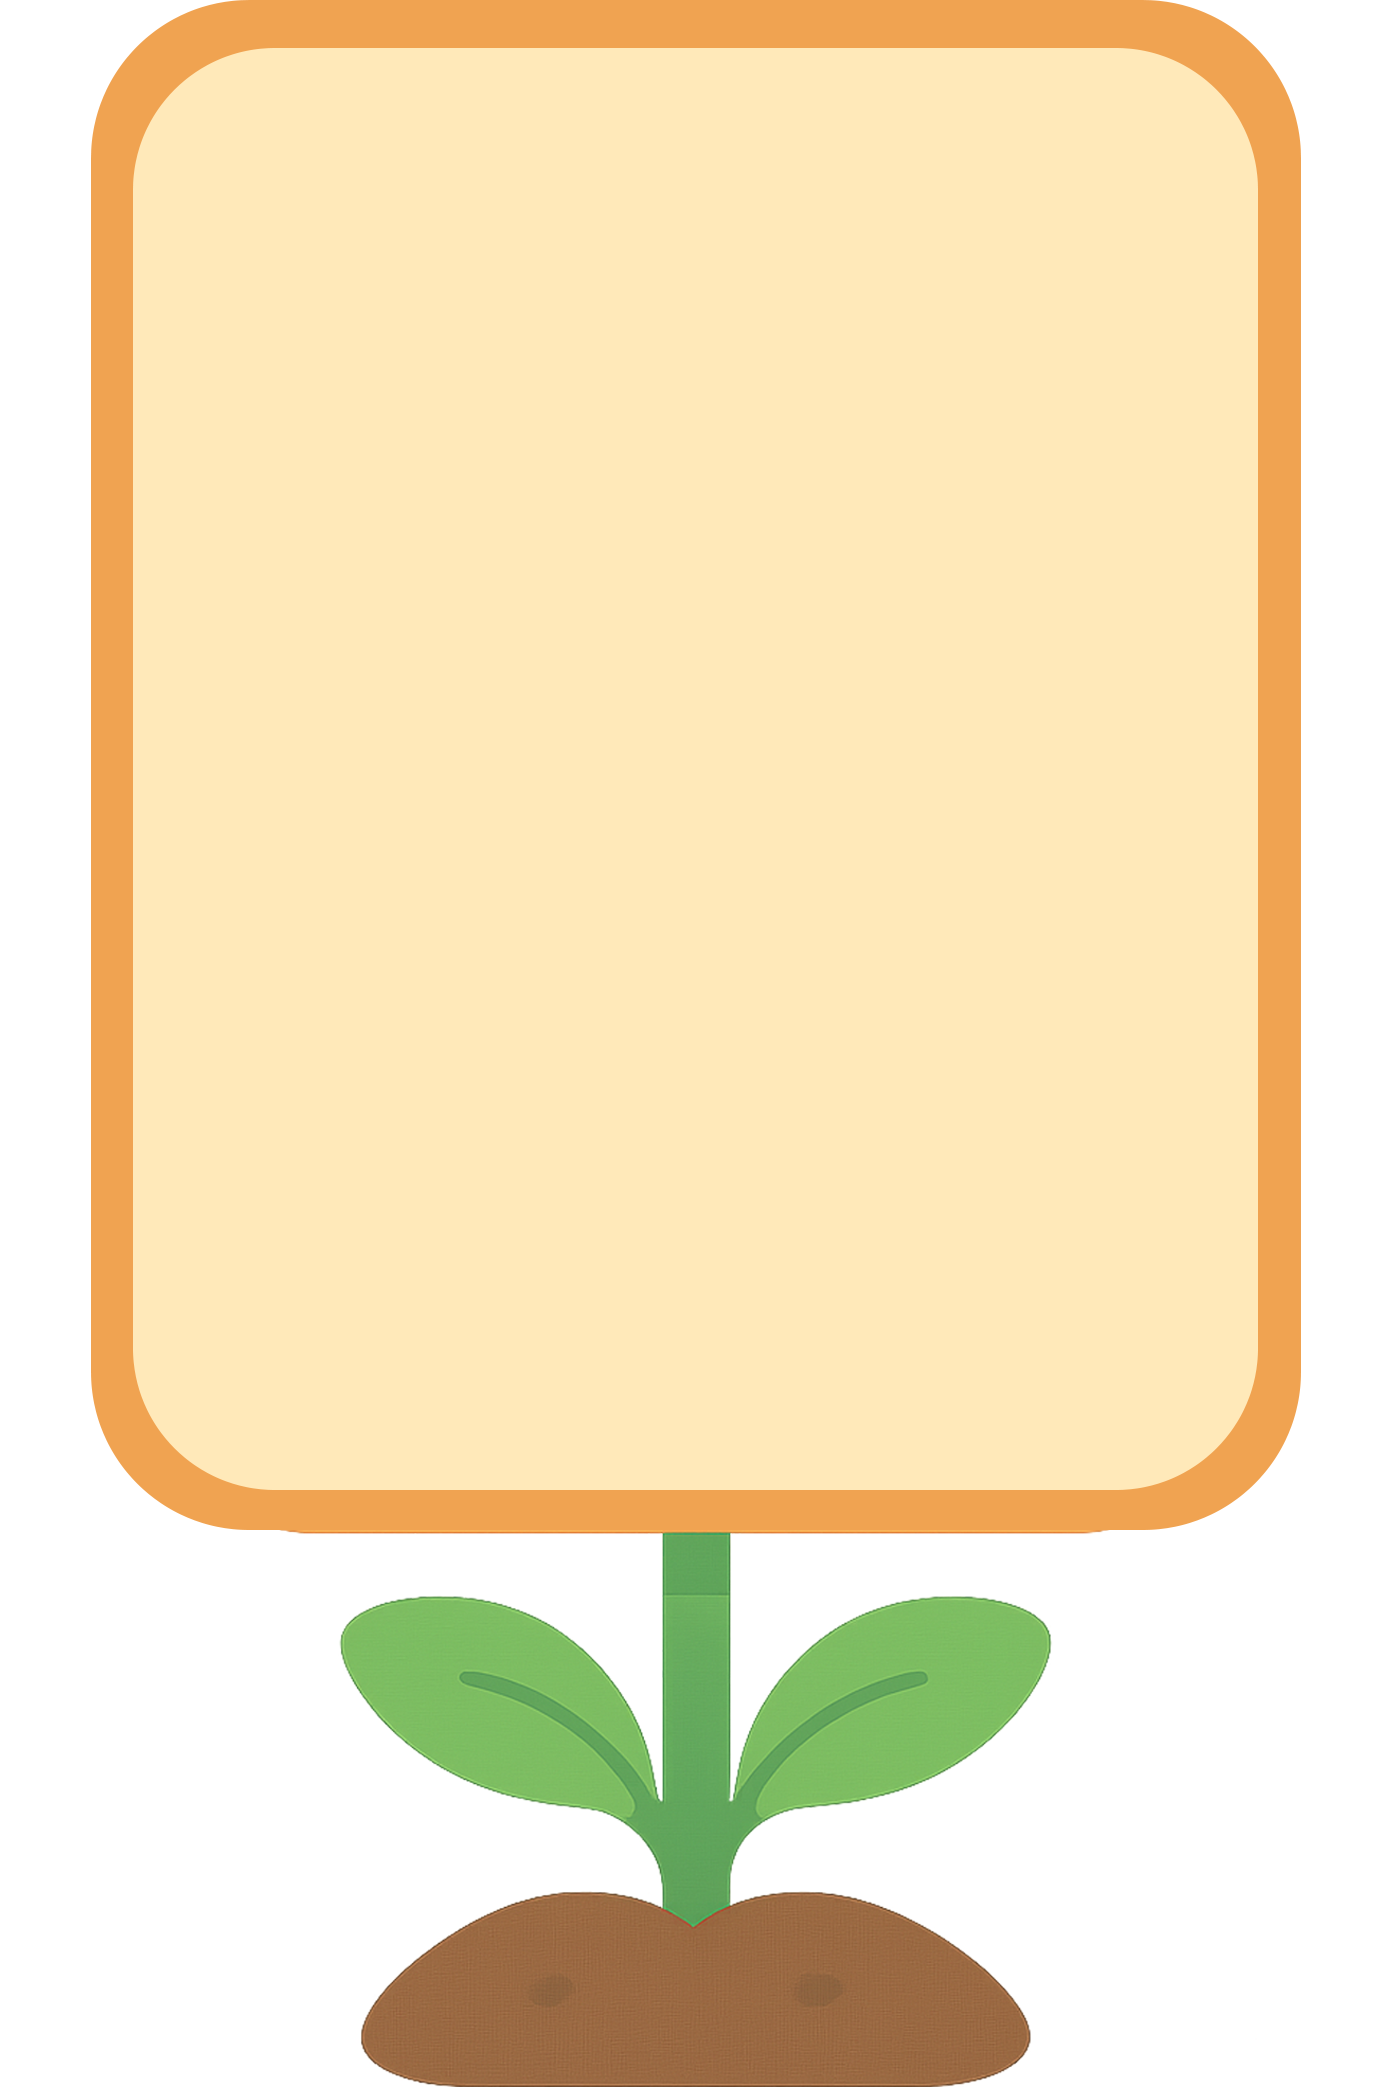
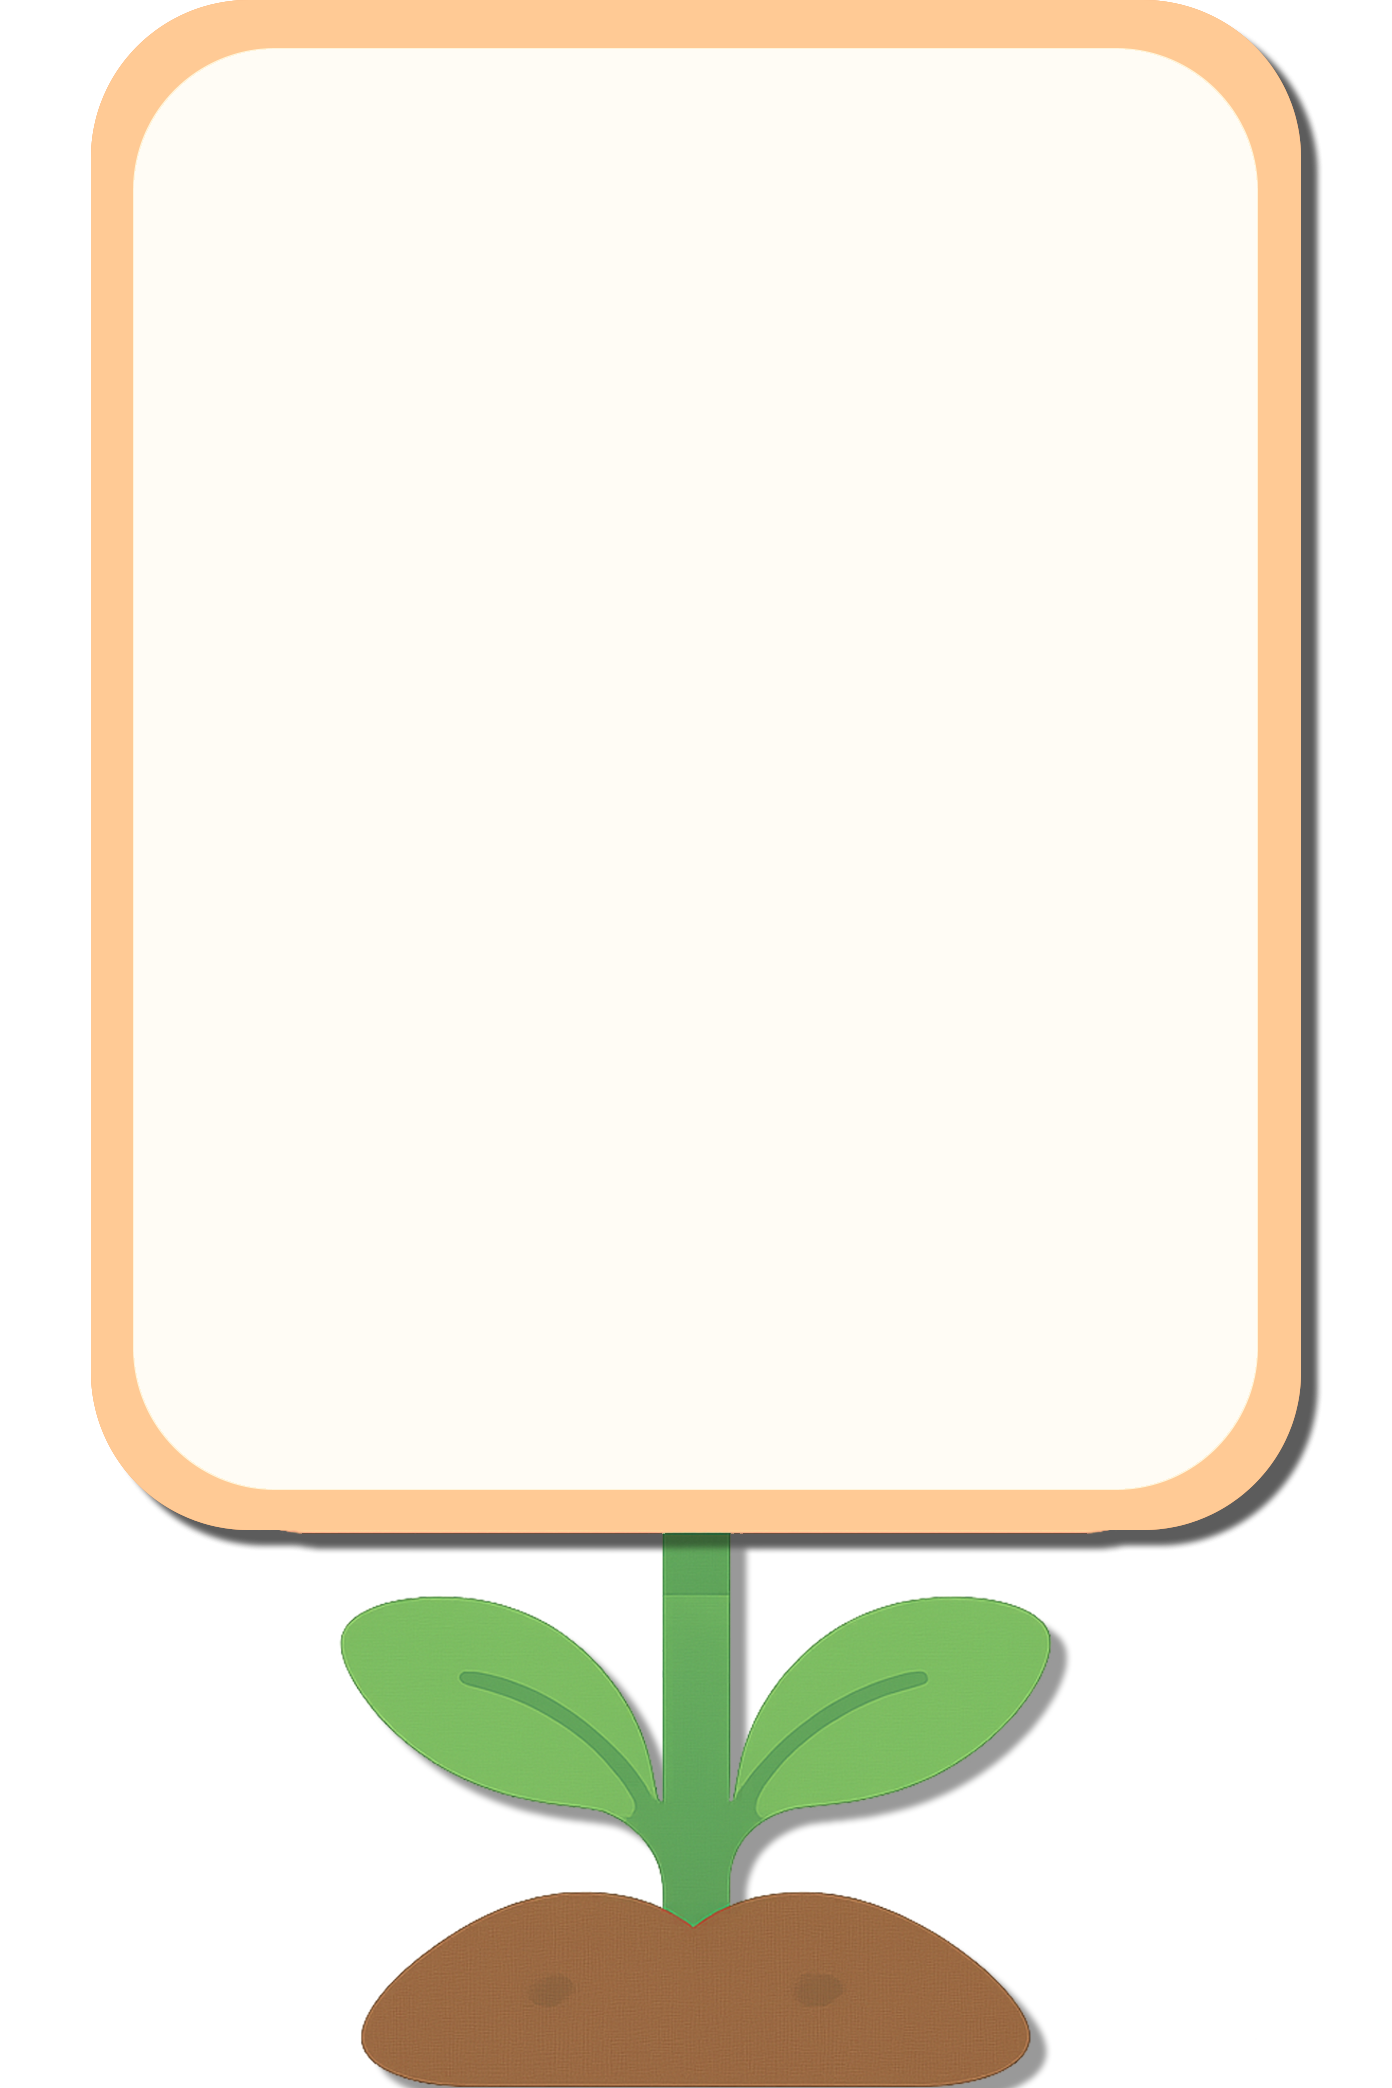
✨ 전체 상품 페이지 UI 변경

diff --git a/FinMate/src/components/product/ProductCard.vue b/FinMate/src/components/product/ProductCard.vue
@@ -1,89 +1,91 @@
 <template>
   <div
     class="product-card"
-    :class="{ selected: isSelected }"
+    :class="[cardBgClass, { selected: isSelected }]"
     @click="handleCardClick"
   >
-    <!-- 체크박스와 상품 타입 -->
-    <div class="card-header">
-      <input
-        type="checkbox"
-        :checked="isSelected"
-        @change="handleSelect"
-        @click="$event.stopPropagation()"
-        class="select-checkbox"
-      />
-      <span
-        class="product-type-badge"
-        :class="getTypeClass(product.productType)"
-      >
-        {{ getTypeLabel(product.productType) }}
-      </span>
-    </div>
-
-    <!-- 은행 정보 -->
-    <div class="bank-section">
-      <div class="bank-icon" :class="getBankClass(product.bankName)">
-        <img
-          :src="getBankImagePath(product.bankName)"
-          :alt="product.bankName"
-          @error="handleImageError"
-          class="bank-logo"
+    <div class="scale">
+      <!-- 체크박스와 상품 타입 -->
+      <div class="card-header">
+        <input
+          type="checkbox"
+          :checked="isSelected"
+          @change="handleSelect"
+          @click="$event.stopPropagation()"
+          class="select-checkbox"
         />
-      </div>
-      <div class="bank-info">
-        <span class="bank-name">{{ product.bankName }}</span>
-      </div>
-    </div>
-
-    <!-- 상품명 -->
-    <h3 class="product-name">{{ product.name }}</h3>
-
-    <!-- 수익률 정보 -->
-    <div class="return-section">
-      <div class="main-return">
-        <span class="return-label">{{
-          getRateLabel(product.productType)
-        }}</span>
-        <span class="return-value"
-          >{{
-            product.productType === 'FUND'
-              ? formatRate(product.expectedReturn)
-              : formatRate(product.expectedReturn + product.detail.bonusRate)
-          }}%</span
+        <span
+          class="product-type-badge"
+          :class="getTypeClass(product.productType)"
         >
+          {{ getTypeLabel(product.productType) }}
+        </span>
       </div>
 
-      <!-- 상세 정보 -->
-      <div class="detail-info" v-if="product.detail">
-        <template
-          v-if="
-            product.productType === 'DEPOSIT' ||
-            product.productType === 'SAVINGS'
-          "
-        >
-          <div class="info-row">
-            <span>기본금리:</span>
-            <span>{{ formatRate(product.expectedReturn) }}%</span>
-          </div>
-          <div class="info-row">
-            <span>우대금리:</span>
-            <span>{{ formatRate(product.detail.bonusRate) }}%</span>
-          </div>
-        </template>
+      <!-- 은행 정보 -->
+      <div class="bank-section">
+        <div class="bank-icon" :class="getBankClass(product.bankName)">
+          <img
+            :src="getBankImagePath(product.bankName)"
+            :alt="product.bankName"
+            @error="handleImageError"
+            class="bank-logo"
+          />
+        </div>
+        <div class="bank-info">
+          <span class="bank-name">{{ product.bankName }}</span>
+        </div>
+      </div>
 
-        <template v-else-if="product.productType === 'FUND'">
-          <div class="info-row">
-            <span>펀드유형:</span>
-            <span>{{ subCategoriesMap(product.detail.fundType) }}</span>
-          </div>
-          <div class="info-row">
-            <span>위험도:</span>
-            <span>{{
-              getRiskLevel(product.detail.riskGrade || product.riskLevel)
-            }}</span>
-          </div>
-        </template>
+      <!-- 상품명 -->
+      <h3 class="product-name">{{ product.name }}</h3>
+
+      <!-- 수익률 정보 -->
+      <div class="return-section">
+        <div class="main-return">
+          <span class="return-label">{{
+            getRateLabel(product.productType)
+          }}</span>
+          <span class="return-value"
+            >{{
+              product.productType === 'FUND'
+                ? formatRate(product.expectedReturn)
+                : formatRate(product.expectedReturn + product.detail.bonusRate)
+            }}%</span
+          >
+        </div>
+
+        <!-- 상세 정보 -->
+        <div class="detail-info" v-if="product.detail">
+          <template
+            v-if="
+              product.productType === 'DEPOSIT' ||
+              product.productType === 'SAVINGS'
+            "
+          >
+            <div class="info-row">
+              <span>기본금리:</span>
+              <span>{{ formatRate(product.expectedReturn) }}%</span>
+            </div>
+            <div class="info-row">
+              <span>우대금리:</span>
+              <span>{{ formatRate(product.detail.bonusRate) }}%</span>
+            </div>
+          </template>
+
+          <template v-else-if="product.productType === 'FUND'">
+            <div class="info-row">
+              <span>펀드유형:</span>
+              <span>{{ subCategoriesMap(product.detail.fundType) }}</span>
+            </div>
+            <div class="info-row">
+              <span>위험도:</span>
+              <span>{{
+                getRiskLevel(product.detail.riskGrade || product.riskLevel)
+              }}</span>
+            </div>
+          </template>
+        </div>
       </div>
     </div>
   </div>
@@ -91,6 +93,15 @@
 
 <script setup>
 import { computed } from 'vue';
+
+const cardBgClass = computed(() => {
+  const map = {
+    DEPOSIT: 'bg-chick', // 예금 = 병아리
+    SAVINGS: 'bg-frog', // 적금 = 개구리
+    FUND: 'bg-rabbit', // 펀드 = 토끼
+  };
+  return map[props.product.productType] || 'bg-default';
+});
 
 const props = defineProps({
   product: {
@@ -239,30 +250,57 @@ const getRiskLevel = (level) => {
 
 <style scoped>
 .product-card {
+  background-size: contain;
+  background-position: center;
+  background-repeat: no-repeat;
   position: relative;
   width: 100%;
   max-width: 25vw;
-  background: #ffffff;
-  border: 1px solid #e0e0e0;
-  border-radius: 12px;
-  padding: 3vh 1.5vw;
+  /* background: #ffffff; */
+  /* border: 1px solid #e0e0e0; */
+  /* border-radius: 12px; */
+  padding: 6vh 2.5vw;
   transition: all 0.3s ease;
   cursor: pointer;
-  box-shadow: 0 2px 8px rgba(0, 0, 0, 0.04);
+  /* box-shadow: 0 2px 8px rgba(0, 0, 0, 0.04); */
   margin: 0 auto;
   min-height: 35vh;
 }
-
-.product-card:hover {
-  border-color: #4caf50;
-  box-shadow: 0 4px 16px rgba(76, 175, 80, 0.15);
-  transform: translateY(-2px);
+/* 타입별 배경 이미지 */
+.bg-frog {
+  background-image: url('@/assets/images/etc/개굴개굴.png'); /* 예금 */
+}
+.bg-chick {
+  background-image: url('@/assets/images/etc/삐약삐약.png'); /* 적금 */
+}
+.bg-rabbit {
+  background-image: url('@/assets/images/etc/깡총.png'); /* 펀드 */
 }
 
-.product-card.selected {
-  border-color: #4caf50;
-  background-color: #f8fff8;
-  box-shadow: 0 4px 16px rgba(76, 175, 80, 0.2);
+.scale {
+  transform: scale(0.9);
+  margin-top: 3vh;
+}
+
+.product-card:hover {
+  /* border-color: #4caf50; */
+  /* box-shadow: 0 4px 16px rgba(76, 175, 80, 0.15); */
+  transform: translateY(-10px);
+}
+
+/* .product-card.selected {
+  border-color: #4caf50; 
+  background-color: #f8fff8; 
+  box-shadow: 0 4px 16px rgba(76, 175, 80, 0.2); 
+}  */
+.bg-frog.selected {
+  background-image: url('@/assets/images/etc/개굴개굴!.png');
+}
+.bg-chick.selected {
+  background-image: url('@/assets/images/etc/삐약삐약!.png');
+}
+.bg-rabbit.selected {
+  background-image: url('@/assets/images/etc/깡총!.png');
 }
 
 .card-header {

diff --git a/FinMate/src/components/product/SearchByCondition.vue b/FinMate/src/components/product/SearchByCondition.vue
@@ -206,9 +206,9 @@ const bankList = [
 
 // 상품 타입 데이터
 const productTypes = [
-  { code: 'DEPOSIT', name: '예금', icon: '💰', iconClass: 'deposit' },
-  { code: 'SAVINGS', name: '적금', icon: '💳', iconClass: 'savings' },
-  { code: 'FUND', name: '펀드', icon: '📈', iconClass: 'fund' },
+  { code: 'DEPOSIT', name: '예금', icon: '🐣', iconClass: 'deposit' },
+  { code: 'SAVINGS', name: '적금', icon: '🐸', iconClass: 'savings' },
+  { code: 'FUND', name: '펀드', icon: '🐰', iconClass: 'fund' },
 ];
 
 // 세부 카테고리 데이터 - 펀드만 있음
@@ -438,7 +438,11 @@ onMounted(() => {
 
 <style scoped>
 .search-condition-container {
-  background: var(--color-product-color);
+  background: url('@/assets/images/etc/배경.png') no-repeat center;
+  background-size: cover;
+  background-position: center;
+  background-repeat: no-repeat;
+  /* background: var(--color-product-color); */
   border: 0.2vh solid var(--color-light-gray);
   border-radius: 2vh;
   padding: 24px;

diff --git a/FinMate/src/components/product/ProductContainer.vue b/FinMate/src/components/product/ProductContainer.vue
@@ -177,7 +177,7 @@ watch(
 <style scoped>
 .product-container {
   width: 100%;
-  background: #ffffff;
+  /* background: #ffffff; */
   min-height: 400px;
 }
 
@@ -293,7 +293,6 @@ watch(
 
 /* 상품 콘텐츠 */
 .products-content {
-  background: url('@/assets/images/etc/진열대.png') no-repeat center;
   background-size: 100% 100%;
   border-radius: 1vw;
   padding: 0;
